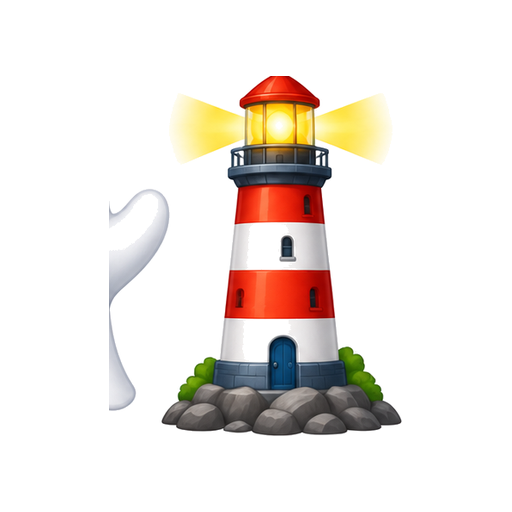
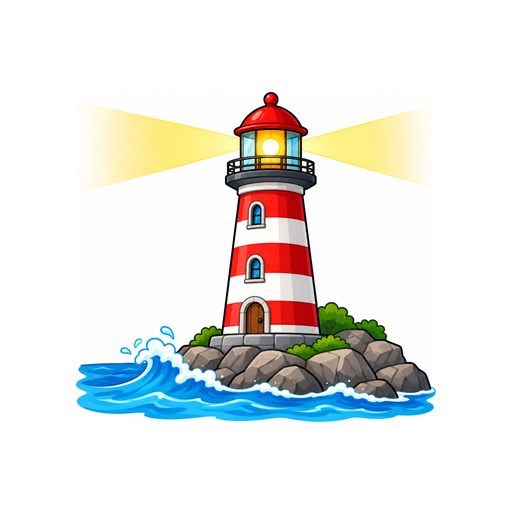
v191: Process and integrate 6 native drawings from EMOJIS13 (BARCO, FARO, FICHA, NARANJA, OVEJA, TIJERA)

Changed region(s): [[0.1562, 0.125, 0.875, 0.875], [0.1875, 0.4062, 0.25, 0.4375]]

diff --git a/index.html b/index.html
@@ -9,7 +9,7 @@
   <title>CRIN Aventuras de Lectoescritura</title>
   
   <script>
-    const CURRENT_APP_VERSION = 'v190';
+    const CURRENT_APP_VERSION = 'v191';
 
     function forceAppUpdate() {
       if ('serviceWorker' in navigator) {
@@ -26,7 +26,7 @@
         localStorage.removeItem('crin_custom_emoji_map');
       } catch(e) {}
       const u = new URL(window.location.href);
-      u.searchParams.set('v', '190');
+      u.searchParams.set('v', '191');
       u.searchParams.set('_b', Date.now());
       window.location.replace(u.toString());
     }
@@ -48,7 +48,7 @@
       const urlParams = new URLSearchParams(window.location.search);
       const urlVer = urlParams.get('v');
       const hasBust = urlParams.has('_b');
-      if ((!urlVer || (urlVer !== '190' && urlVer !== 'v190')) && !hasBust) {
+      if ((!urlVer || (urlVer !== '191' && urlVer !== 'v191')) && !hasBust) {
         forceAppUpdate();
       } else if (hasBust || urlVer) {
         try {
@@ -1170,7 +1170,7 @@
           <!-- SELECTOR DE TAREA SEMANAL -->
           <div class="panel-card" style="margin-bottom: 12px; background: linear-gradient(135deg, #74B9FF 0%, #0984E3 100%); color: white; padding: 12px 14px; border-radius: 16px; box-shadow: 0 4px 12px rgba(9, 132, 227, 0.25);">
             <div style="font-weight: bold; font-size: 13px; margin-bottom: 6px; display: flex; align-items: center; justify-content: space-between;">
-              <span>🎯 Seleccionar Tarea Activa: <span style="font-size: 9px; background: #2ECC71; color: white; border-radius: 6px; padding: 1px 5px; font-weight: bold; vertical-align: middle;">v190</span> <button onclick="forceAppUpdate()" style="background: rgba(255,255,255,0.3); border: 1px solid white; color: white; border-radius: 6px; padding: 1px 6px; font-size: 9px; font-weight: bold; cursor: pointer; margin-left: 4px;">🔄 Recargar v190</button></span>
+              <span>🎯 Seleccionar Tarea Activa: <span style="font-size: 9px; background: #2ECC71; color: white; border-radius: 6px; padding: 1px 5px; font-weight: bold; vertical-align: middle;">v191</span> <button onclick="forceAppUpdate()" style="background: rgba(255,255,255,0.3); border: 1px solid white; color: white; border-radius: 6px; padding: 1px 6px; font-size: 9px; font-weight: bold; cursor: pointer; margin-left: 4px;">🔄 Recargar v191</button></span>
               <span id="active-task-badge" style="background: rgba(255,255,255,0.25); border-radius: 10px; padding: 2px 8px; font-size: 10px;">4 Misiones</span>
             </div>
             <select id="active-task-select" onchange="changeActiveTaskPack(this.value)" style="width: 100%; padding: 8px 12px; border-radius: 12px; border: none; font-weight: bold; font-size: 13px; color: #2D3436; background: white; cursor: pointer; box-shadow: 0 4px 10px rgba(0,0,0,0.15);">
@@ -1457,7 +1457,7 @@
       <div id="screen-therapist" class="screen">
         <div style="display: flex; justify-content: space-between; align-items: center; margin-bottom: 12px;">
           <h2 style="font-size: 18px; margin: 0;">⚙ Panel Terapeuta / Padres</h2>
-          <span style="font-size: 10px; background: #2ECC71; color: white; border-radius: 8px; padding: 2px 6px; font-weight: bold;">v190</span>
+          <span style="font-size: 10px; background: #2ECC71; color: white; border-radius: 8px; padding: 2px 6px; font-weight: bold;">v191</span>
         </div>
         
         <!-- 📌 PASO 1: GESTOR Y EDITOR DEL DICCIONARIO DE DIBUJOS Y PALABRAS -->
@@ -3195,7 +3195,7 @@
       if (!url) return '';
       const str = String(url).trim();
       if (str.startsWith('assets/') || str.includes('/assets/')) {
-        const v = (typeof CURRENT_APP_VERSION !== 'undefined') ? CURRENT_APP_VERSION : '190';
+        const v = (typeof CURRENT_APP_VERSION !== 'undefined') ? CURRENT_APP_VERSION : '191';
         if (str.includes('?')) return str + '&v=' + v;
         return str + '?v=' + v;
       }
@@ -3267,13 +3267,13 @@
       'GATO': 'assets/gato.png', 'FELINO': '🐅', 'PERRO': 'assets/perro.png', 'OSO': 'assets/oso.png', 'PUMA': '🐆', 'LEÓN': 'assets/leon.png', 'LEON': 'assets/leon.png', 'RATÓN': 'assets/raton.png', 'RATON': 'assets/raton.png', 'MONO': 'assets/mono.png', 'MONITO': 'assets/mono.png', 'JIRAFA': 'assets/jirafa.png',
       'PATO': 'assets/pato.png', 'RANA': '🐸', 'SAPO': 'assets/sapo.png', 'SPO': 'assets/sapo.png', 'PÁJARO': 'assets/pajaro.png', 'PAJARO': 'assets/pajaro.png', 'PEZ': 'assets/pez.png', 'FOCA': 'assets/foca.png', 'SERPIENTE': 'assets/serpiente.png', 'SIRENA': '🧜♀', 'MARIPOSA': 'assets/mariposa.png', 'TOPO': 'assets/topo.png', 'COLA': 'assets/cola.png',
       'HOJA': 'assets/hoja.png', 'ÁRBOL': 'assets/arbol.png', 'ARBOL': 'assets/arbol.png', 'SEMILLA': 'assets/semilla.png', 'PINO': 'assets/pino.png', 'FLOR': 'assets/flor.png', 'ROSA': 'assets/rosa.png', 'LOMA': 'assets/loma.png', 'MONTAÑA': 'assets/montana.png', 'MONTANA': 'assets/montana.png', 'FUEGO': 'assets/fuego.png', 'ESTUFA': 'assets/estufa.png', 'POZO': 'assets/pozo.png', 'TÚNEL': 'assets/tunel.png', 'TUNEL': 'assets/tunel.png', 'CERA': '🍯', 'VELA': '🕯', 'MELÓN': 'assets/melon.png', 'MELON': 'assets/melon.png', 'PIMIENTO': 'assets/pimiento.png', 'TOMATE': 'assets/tomate.png', 'ZANAHORIA': 'assets/zanahoria.png',
-      'LATA': 'assets/lata.png', 'PILA': 'assets/pila.png', 'LLAVE': 'assets/llave.png', 'LÁPIZ': 'assets/lapiz.png', 'LAPIZ': 'assets/lapiz.png', 'LIBRO': 'assets/libro.png', 'CUENTO': 'assets/cuento.png', 'MAPA': 'assets/mapa.png', 'TIJERA': '✂', 'SOMBRERO': 'assets/sombrero.png', 'SOMBRILLA': 'assets/sombrilla.png', 'PIPA': 'assets/pipa.png', 'PITO': 'assets/silbato.png', 'SILBATO': 'assets/silbato.png', 'JAULA': 'assets/jaula.png',
+      'LATA': 'assets/lata.png', 'PILA': 'assets/pila.png', 'LLAVE': 'assets/llave.png', 'LÁPIZ': 'assets/lapiz.png', 'LAPIZ': 'assets/lapiz.png', 'LIBRO': 'assets/libro.png', 'CUENTO': 'assets/cuento.png', 'MAPA': 'assets/mapa.png', 'TIJERA': 'assets/tijera.png', 'SOMBRERO': 'assets/sombrero.png', 'SOMBRILLA': 'assets/sombrilla.png', 'PIPA': 'assets/pipa.png', 'PITO': 'assets/silbato.png', 'SILBATO': 'assets/silbato.png', 'JAULA': 'assets/jaula.png',
       'DADO': 'assets/dado.png', 'FICHA': 'assets/ficha.png', 'TAPA': '📦', 'CAJA': 'assets/caja.png', 'CAJÓN': 'assets/cajon.png', 'CAJON': 'assets/cajon.png', 'TELA': 'assets/tela.png', 'LANA': 'assets/lana.png', 'TÍTERE': 'assets/titere.png', 'TITERE': 'assets/titere.png', 'CHALECO': 'assets/chaleco.png', 'FANTASMA': 'assets/fantasma.png', 'FARO': 'assets/faro.png', 'GAFAS': 'assets/anteojos.png', 'GAFA': 'assets/anteojos.png', 'ANTEOJOS': 'assets/anteojos.png', 'RIFA': 'assets/rifa.png',
       'CASA': 'assets/casa.png', 'TECHO': 'assets/techo.png', 'PUERTA': '🚪', 'PUENTE': 'assets/puente.png', 'CAMA': 'assets/cama.png', 'CUNA': 'assets/cuna.png', 'SILLA': '🪑', 'MESA': 'assets/mesa.png',
       'SALA': '📺', 'SOFÁ': 'assets/sofa.png', 'SOFA': 'assets/sofa.png', 'COPA': 'assets/copa.png',
-      'AUTO': 'assets/auto.png', 'COCHE': 'assets/coche_bebe.png', 'COCHE_BEBE': 'assets/coche_bebe.png', 'BICI': 'assets/bicicleta.png', 'BICICLETA': 'assets/bicicleta.png', 'MOTO': 'assets/moto.png', 'TREN': 'assets/tren.png',
+      'AUTO': 'assets/auto.png', 'COCHE': 'assets/coche_bebe.png', 'COCHE_BEBE': 'assets/coche_bebe.png', 'BICI': 'assets/bicicleta.png', 'BICICLETA': 'assets/bicicleta.png', 'MOTO': 'assets/moto.png', 'TREN': 'assets/tren.png', 'BARCO': 'assets/barco.png',
       'PELOTA': 'assets/pelota.png', 'BOLA': '🔮', 'ZAPATO': 'assets/zapato.png', 'ZAPATILLA': 'assets/zapatilla.png', 'BOTA': 'assets/bota.png', 'PLUMA': 'assets/pluma.png', 'PALA': 'assets/pala.png', 'MANO': 'assets/mano.png', 'BOCA': 'assets/boca.png', 'DEDO': 'assets/dedo.png', 'PIE': 'assets/pie.png', 'PATA': '🐾', 'CARA': '😃', 'CORAZÓN': 'assets/corazon.png', 'CORAZON': 'assets/corazon.png', 'MIRADA': '👀', 'MÚSICA': 'assets/musica.png', 'MUSICA': 'assets/musica.png', 'COMA': '✍',
-      'MAMÁ': '👩', 'MAMA': '👩', 'MADRE': '👩', 'PAPÁ': '👨', 'PAPA': '👨', 'PADRE': '👨', 'NIÑO': '👦', 'NINO': '👦', 'NIÑA': '👧', 'NINA': '👧', 'ABUELO': 'assets/abuelo.png', 'ABUELA': 'assets/abuela.png', 'TÍO': '🧔', 'TIO': '🧔', 'TÍA': '👩🦱', 'TIA': '👩🦱', 'SEÑOR': '👨💼', 'SENOR': '👨💼', 'SEÑORA': '👩🦳', 'SENORA': '👩🦳', 'VERDE': 'assets/verde.png', 'AMARILLO': 'assets/amarillo.png', 'ROJO': 'assets/rojo.png', 'GLOBO': 'assets/globo.png', 'VIOLETA': 'assets/violeta.png', 'MORADO': 'assets/violeta.png', 'AZUL': 'assets/azul.png', 'ROSA_COLOR': '🩷', 'GRIS': '🩶', 'DORADO': 'assets/dorado.png', 'LENTA': '🐢', 'LINDA': 'assets/linda.png', 'POMELO': 'assets/pomelo.png', 'FUENTE': 'assets/fuente.png', 'HELADO': 'assets/helado.png', 'TELÉFONO': 'assets/telefono.png', 'TELEFONO': 'assets/telefono.png', 'CINE': 'assets/cine.png', 'FOTO': 'assets/foto.png', 'COPITA': 'assets/copita.png', 'BLUEY': 'assets/bluey.png', 'BOSQUE': 'assets/bosque.png', 'BUHO': 'assets/buho.png', 'BÚHO': 'assets/buho.png', 'CAJITA': 'assets/cajita.png', 'CAMINO': 'assets/camino.png', 'CAPIVARA': 'assets/capivara.png', 'CAPIBARA': 'assets/capivara.png', 'COHETE': 'assets/cohete.png', 'COSECHA': 'assets/cosecha.png', 'CUCHARA': 'assets/cuchara.png', 'CUCHILLO': 'assets/cuchillo.png', 'ELEFANTE': 'assets/elefante.png', 'JEFE': 'assets/jefe.png', 'MENSAJERO': 'assets/mensajero.png', 'MINUTO': 'assets/minuto.png', 'SÁBANA': 'assets/sabana.png', 'SABANA': 'assets/sabana.png', 'TENEDOR': 'assets/tenedor.png', 'VESTIDO': 'assets/vestido.png'
+      'MAMÁ': '👩', 'MAMA': '👩', 'MADRE': '👩', 'PAPÁ': '👨', 'PAPA': '👨', 'PADRE': '👨', 'NIÑO': '👦', 'NINO': '👦', 'NIÑA': '👧', 'NINA': '👧', 'ABUELO': 'assets/abuelo.png', 'ABUELA': 'assets/abuela.png', 'TÍO': '🧔', 'TIO': '🧔', 'TÍA': '👩🦱', 'TIA': '👩🦱', 'SEÑOR': '👨💼', 'SENOR': '👨💼', 'SEÑORA': '👩🦳', 'SENORA': '👩🦳', 'VERDE': 'assets/verde.png', 'AMARILLO': 'assets/amarillo.png', 'ROJO': 'assets/rojo.png', 'GLOBO': 'assets/globo.png', 'VIOLETA': 'assets/violeta.png', 'MORADO': 'assets/violeta.png', 'AZUL': 'assets/azul.png', 'ROSA_COLOR': '🩷', 'GRIS': '🩶', 'DORADO': 'assets/dorado.png', 'LENTA': '🐢', 'LINDA': 'assets/linda.png', 'POMELO': 'assets/pomelo.png', 'FUENTE': 'assets/fuente.png', 'HELADO': 'assets/helado.png', 'TELÉFONO': 'assets/telefono.png', 'TELEFONO': 'assets/telefono.png', 'CINE': 'assets/cine.png', 'FOTO': 'assets/foto.png', 'COPITA': 'assets/copita.png', 'BLUEY': 'assets/bluey.png', 'BOSQUE': 'assets/bosque.png', 'BUHO': 'assets/buho.png', 'BÚHO': 'assets/buho.png', 'CAJITA': 'assets/cajita.png', 'CAMINO': 'assets/camino.png', 'CAPIVARA': 'assets/capivara.png', 'CAPIBARA': 'assets/capivara.png', 'COHETE': 'assets/cohete.png', 'COSECHA': 'assets/cosecha.png', 'CUCHARA': 'assets/cuchara.png', 'CUCHILLO': 'assets/cuchillo.png', 'ELEFANTE': 'assets/elefante.png', 'JEFE': 'assets/jefe.png', 'MENSAJERO': 'assets/mensajero.png', 'MINUTO': 'assets/minuto.png', 'SÁBANA': 'assets/sabana.png', 'SABANA': 'assets/sabana.png', 'TENEDOR': 'assets/tenedor.png', 'VESTIDO': 'assets/vestido.png', 'NARANJA': 'assets/naranja.png', 'OVEJA': 'assets/oveja.png'
     };
 
     function getEmojiForWord(word) {
@@ -3441,7 +3441,7 @@
       '☀ Naturaleza y Cielo': ['🌙', '🌌', '☀', '⭐', '☁', '⬛', '⬜', '🍃', '🌳', '🌲', '🌸', '🌹', '⛰', '🏔', '🔥', '🕳', '🚇', '🕯', '✨', '⛲'],
       '🎨 Colores y Formas': ['🔴', '🔵', '🟡', '🟢', '⬜', '⬛', '🩷', '🩶', '🌟', '💎', '❤', '👀', '🎵', '✍', '✋', '👄', '☝', '🦶', '🐾', '😃'],
       '👨 Personas': ['👩', '👨', '👦', '👧', '👴', '👵', '🧔', '👩🦱', '👨💼', '👩🦳', '🧒', '🍼'],
-      '🖼 Fotos e Ilustraciones': ['assets/buho.png', 'assets/cajita.png', 'assets/camino.png', 'assets/capivara.png', 'assets/cohete.png', 'assets/cosecha.png', 'assets/cuchara.png', 'assets/cuchillo.png', 'assets/elefante.png', 'assets/jefe.png', 'assets/linda.png', 'assets/loma.png', 'assets/mensajero.png', 'assets/minuto.png', 'assets/puente.png', 'assets/rifa.png', 'assets/sabana.png', 'assets/serpiente.png', 'assets/sofa.png', 'assets/sombrero.png', 'assets/taza.png', 'assets/tenedor.png', 'assets/vestido.png', 'assets/bluey.png', 'assets/globo.png', 'assets/violeta.png', 'assets/negro.png', 'assets/rojo.png', 'assets/zapato.png', 'assets/zapatilla.png', 'assets/montana.png', 'assets/sapo.png', 'assets/silbato.png', 'assets/mesa.png', 'assets/techo.png', 'assets/cola.png', 'assets/jirafa.png', 'assets/melon.png', 'assets/pimiento.png', 'assets/raton.png', 'assets/titere.png', 'assets/tomate.png', 'assets/zanahoria.png', 'assets/auto.png', 'assets/banana.png', 'assets/bicicleta.png', 'assets/bota.png', 'assets/cafe.png', 'assets/sandia.png', 'assets/caramelo.png', 'assets/chaleco.png', 'assets/estrella.png', 'assets/helado.png', 'assets/lana.png', 'assets/lapiz.png', 'assets/lata.png', 'assets/leche.png', 'assets/leon.png', 'assets/libro.png', 'assets/limon.png', 'assets/llave.png', 'assets/luna.png', 'assets/pelota.png', 'assets/sol.png', 'assets/telefono.png', 'assets/abuela.png', 'assets/abuelo.png', 'assets/agua.png', 'assets/amarillo.png', 'assets/anteojos.png', 'assets/arbol.png', 'assets/azul.png', 'assets/blanco.png', 'assets/boca.png', 'assets/cama.png', 'assets/casa.png', 'assets/cena.png', 'assets/cine.png', 'assets/coche_bebe.png', 'assets/coco.png', 'assets/copa.png', 'assets/corazon.png', 'assets/cuento.png', 'assets/cuna.png', 'assets/dado.png', 'assets/dedo.png', 'assets/dorado.png', 'assets/fantasma.png', 'assets/faro.png', 'assets/ficha.png', 'assets/fideo.png', 'assets/flor.png', 'assets/foca.png', 'assets/fuente.png', 'assets/foto.png', 'assets/fuego.png', 'assets/gato.png', 'assets/hoja.png', 'assets/jaula.png', 'assets/manzana.png', 'assets/mapa.png', 'assets/mano.png', 'assets/mariposa.png', 'assets/mate.png', 'assets/mono.png', 'assets/moto.png', 'assets/musica.png', 'assets/noche.png', 'assets/oso.png', 'assets/pajaro.png', 'assets/pala.png', 'assets/pan.png', MESA_SVG_ICON]
+      '🖼 Fotos e Ilustraciones': ['assets/barco.png', 'assets/naranja.png', 'assets/oveja.png', 'assets/tijera.png', 'assets/buho.png', 'assets/cajita.png', 'assets/camino.png', 'assets/capivara.png', 'assets/cohete.png', 'assets/cosecha.png', 'assets/cuchara.png', 'assets/cuchillo.png', 'assets/elefante.png', 'assets/jefe.png', 'assets/linda.png', 'assets/loma.png', 'assets/mensajero.png', 'assets/minuto.png', 'assets/puente.png', 'assets/rifa.png', 'assets/sabana.png', 'assets/serpiente.png', 'assets/sofa.png', 'assets/sombrero.png', 'assets/taza.png', 'assets/tenedor.png', 'assets/vestido.png', 'assets/bluey.png', 'assets/globo.png', 'assets/violeta.png', 'assets/negro.png', 'assets/rojo.png', 'assets/zapato.png', 'assets/zapatilla.png', 'assets/montana.png', 'assets/sapo.png', 'assets/silbato.png', 'assets/mesa.png', 'assets/techo.png', 'assets/cola.png', 'assets/jirafa.png', 'assets/melon.png', 'assets/pimiento.png', 'assets/raton.png', 'assets/titere.png', 'assets/tomate.png', 'assets/zanahoria.png', 'assets/auto.png', 'assets/banana.png', 'assets/bicicleta.png', 'assets/bota.png', 'assets/cafe.png', 'assets/sandia.png', 'assets/caramelo.png', 'assets/chaleco.png', 'assets/estrella.png', 'assets/helado.png', 'assets/lana.png', 'assets/lapiz.png', 'assets/lata.png', 'assets/leche.png', 'assets/leon.png', 'assets/libro.png', 'assets/limon.png', 'assets/llave.png', 'assets/luna.png', 'assets/pelota.png', 'assets/sol.png', 'assets/telefono.png', 'assets/abuela.png', 'assets/abuelo.png', 'assets/agua.png', 'assets/amarillo.png', 'assets/anteojos.png', 'assets/arbol.png', 'assets/azul.png', 'assets/blanco.png', 'assets/boca.png', 'assets/cama.png', 'assets/casa.png', 'assets/cena.png', 'assets/cine.png', 'assets/coche_bebe.png', 'assets/coco.png', 'assets/copa.png', 'assets/corazon.png', 'assets/cuento.png', 'assets/cuna.png', 'assets/dado.png', 'assets/dedo.png', 'assets/dorado.png', 'assets/fantasma.png', 'assets/faro.png', 'assets/ficha.png', 'assets/fideo.png', 'assets/flor.png', 'assets/foca.png', 'assets/fuente.png', 'assets/foto.png', 'assets/fuego.png', 'assets/gato.png', 'assets/hoja.png', 'assets/jaula.png', 'assets/manzana.png', 'assets/mapa.png', 'assets/mano.png', 'assets/mariposa.png', 'assets/mate.png', 'assets/mono.png', 'assets/moto.png', 'assets/musica.png', 'assets/noche.png', 'assets/oso.png', 'assets/pajaro.png', 'assets/pala.png', 'assets/pan.png', MESA_SVG_ICON]
     };
 
     const SUGGESTED_EMOJIS_MAP = {
@@ -3513,7 +3513,10 @@
       'CUENTO': ['assets/cuento.png', '📜', '📖', '📚', '🧙♂'],
       'MAPA': ['assets/mapa.png', '🗺', '🧭', '📜', '🌍'],
       'JAULA': ['assets/jaula.png', '🛖', '📦', '🚪'],
-      'TIJERA': ['✂', '📐', '✏', '📎'],
+      'TIJERA': ['assets/tijera.png', '✂', '📐', '✏', '📎'],
+      'BARCO': ['assets/barco.png', '⛵', '🚢', '🚤', '🌊'],
+      'NARANJA': ['assets/naranja.png', '🍊', '🍊', '🍊'],
+      'OVEJA': ['assets/oveja.png', 'assets/lana.png', '🐑', '🐑'],
       'PIPA': ['🫧', '🧼', '💨', '💭'],
       'PITO': ['📢', '🎷', '🎺', '🔔'],
       'DADO': ['assets/dado.png', '🎲', '🎯', '🎰', '🧩'],
